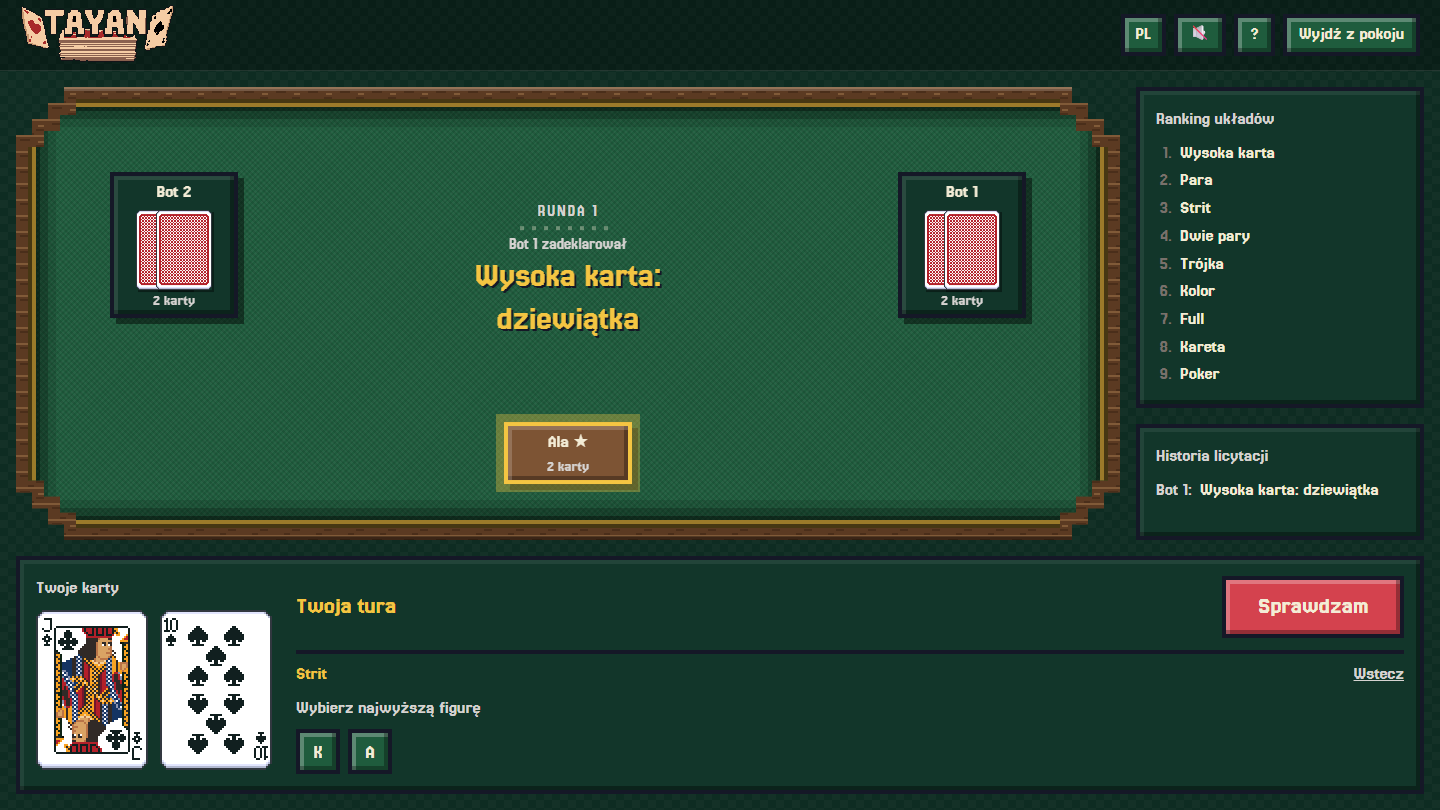
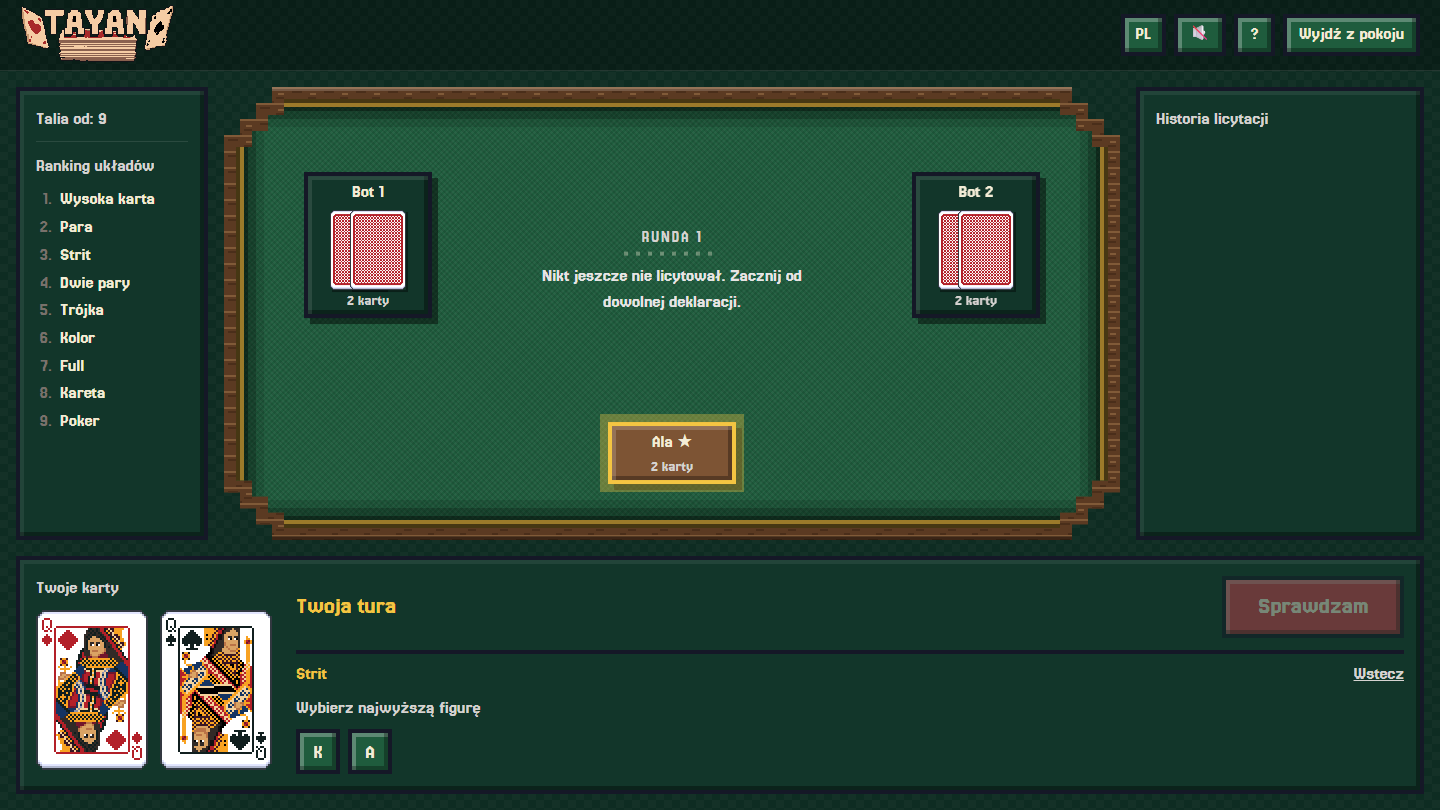
fix(web): drop undealt-card count, move deck info above the ranking
The bottom-right deck badge (icon, lowest rank, undealt count) is gone;
just the lowest rank now sits above the hand ranking panel as a plain
line, both in the wide layout and the phone popover.

Also regenerates the README gameplay GIFs and table screenshots (PL/EN)
to reflect the table's current layout.

diff --git a/apps/web/src/screens/Table.tsx b/apps/web/src/screens/Table.tsx
@@ -1,7 +1,6 @@
 import { useEffect, useRef, useState, type ReactNode } from 'react';
 import { useTranslation } from 'react-i18next';
 import {
-  deckSize,
   formatDeclaration,
   rankLabel,
   type Card,
@@ -13,7 +12,6 @@ import { DeclarationPicker } from '../components/DeclarationPicker';
 import { FinalDuelSplash } from '../components/FinalDuelSplash';
 import { HandRanking } from '../components/HandRanking';
 import { SuitText } from '../components/SuitIcon';
-import { backSprite } from '../lib/cards';
 import { useDeclarations, useLang, useNow } from '../lib/hooks';
 import { iconZoom, seatCardScale, useArtScale, useLayoutMode, useLayoutScale } from '../lib/scale';
 import { playTurnSound, startTitleBlink, stopTitleBlink } from '../lib/sound';
@@ -78,12 +76,6 @@ export function Table({ view, room }: { view: PlayerView; room: RoomState }) {
   const myTurn = isPlayer && view.currentTurn === view.me;
   // the decisive duel: whole game long if it started with just the two of them
   const isFinal = view.players.filter((p) => !p.eliminated).length === 2;
-  const deckTotal = deckSize(view.settings.lowestRank);
-  // cards not dealt to anyone this round: only active players get a hand (game.ts's `dealRound`)
-  const dealtCards = view.players
-    .filter((p) => !p.eliminated)
-    .reduce((sum, p) => sum + p.cardCount, 0);
-  const undealtCards = deckTotal - dealtCards;
   const lastBid = view.bids[view.bids.length - 1];
   const lastDecl = lastBid ? byId(lastBid.declarationId) : undefined;
   const secondsLeft = view.turnDeadline
@@ -143,6 +135,9 @@ export function Table({ view, room }: { view: PlayerView; room: RoomState }) {
       >
         {!compact && (
           <aside className="panel min-h-0 overflow-y-auto">
+            <p className="mb-3 border-b border-white/10 pb-2 text-sm text-stone-300">
+              {t('table.deckFrom', { rank: rankLabel(view.settings.lowestRank) })}
+            </p>
             <HandRanking categoryOrder={view.settings.categoryOrder} />
           </aside>
         )}
@@ -241,26 +236,6 @@ export function Table({ view, room }: { view: PlayerView; room: RoomState }) {
             {showVsSplash && duellists.length === 2 && (
               <FinalDuelSplash left={duellists[0]!.nick} right={duellists[1]!.nick} />
             )}
-            <div
-              className="plaque absolute bottom-1 flex items-center gap-1.5 border-4 border-ink bg-panel px-1.5 py-1"
-              // the felt's stepped corner notch eats the bottom-right ~3*--st square; clearing it on
-              // the right axis alone is enough to stay off the cut, whichever axis the cut favours
-              style={{ right: 'calc(var(--st) * 3.5)' }}
-            >
-              <img
-                src={backSprite('red')}
-                alt=""
-                width={28}
-                height={40}
-                draggable={false}
-                className="block select-none"
-                style={{ imageRendering: 'pixelated' }}
-              />
-              <div className="text-left text-xs leading-tight text-stone-300">
-                <p>{t('table.deckFrom', { rank: rankLabel(view.settings.lowestRank) })}</p>
-                <p>{t('table.deckUndealt', { count: undealtCards })}</p>
-              </div>
-            </div>
           </div>
         </div>
 
@@ -300,6 +275,9 @@ export function Table({ view, room }: { view: PlayerView; room: RoomState }) {
             <aside
               className={`panel absolute bottom-14 right-3 z-10 max-h-[70%] w-56 overflow-y-auto ${historyOpen ? '' : 'hidden'}`}
             >
+              <p className="mb-3 border-b border-white/10 pb-2 text-sm text-stone-300">
+                {t('table.deckFrom', { rank: rankLabel(view.settings.lowestRank) })}
+              </p>
               <HandRanking categoryOrder={view.settings.categoryOrder} />
               <div className="mt-3 border-t border-white/10 pt-2">{history}</div>
             </aside>

diff --git a/CHANGELOG.md b/CHANGELOG.md
@@ -16,7 +16,7 @@ All notable changes are listed here. The format follows [Keep a Changelog](https
 
 ### Added
 
-- The table always shows a small deck badge in its bottom-right corner: the lowest rank in play and how many of the deck's cards were not dealt to anyone this round
+- The table always shows the deck's lowest rank, above the hand ranking panel
 - Optional: when `GAME_LOG_DATABASE_URL` is set, every finished game with no bots is recorded to Postgres (players, settings, winner, and the full round-by-round transcript), for play-activity stats and future bot training data. Off unless configured; see `docs/deployment.md`
 
 ### Changed
